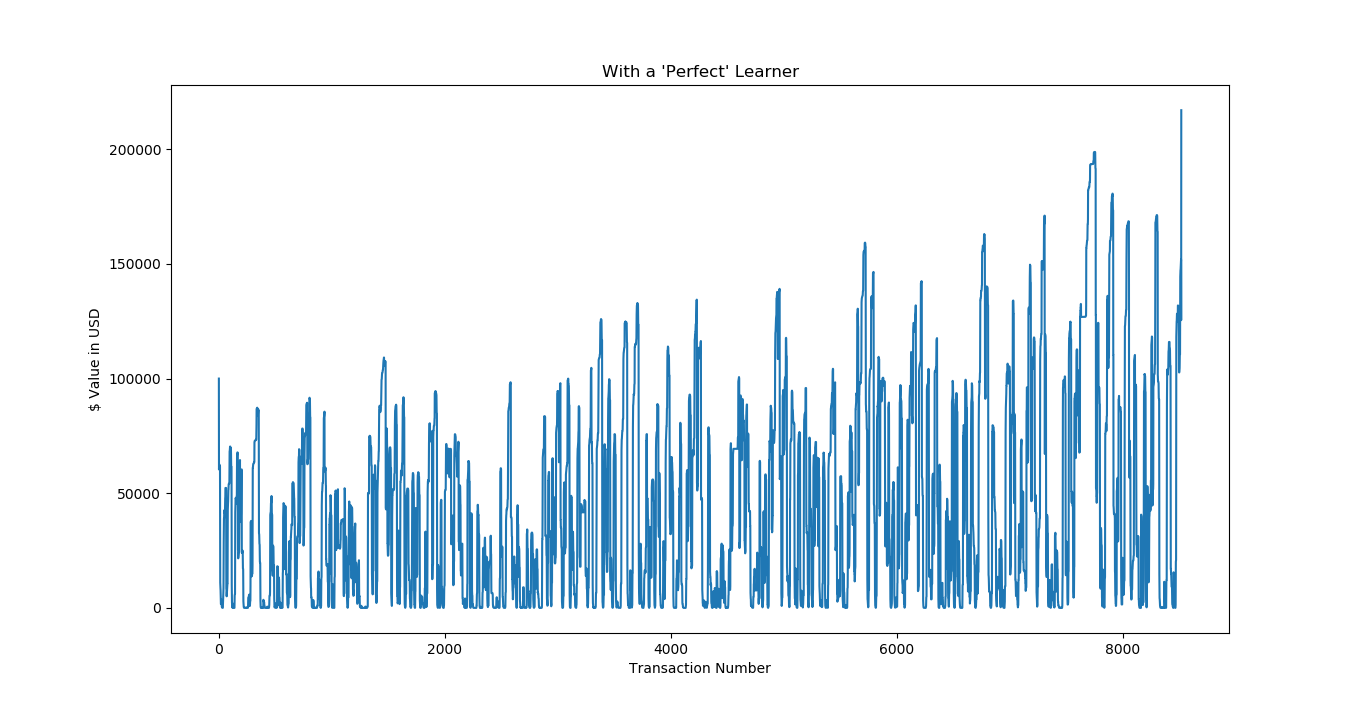
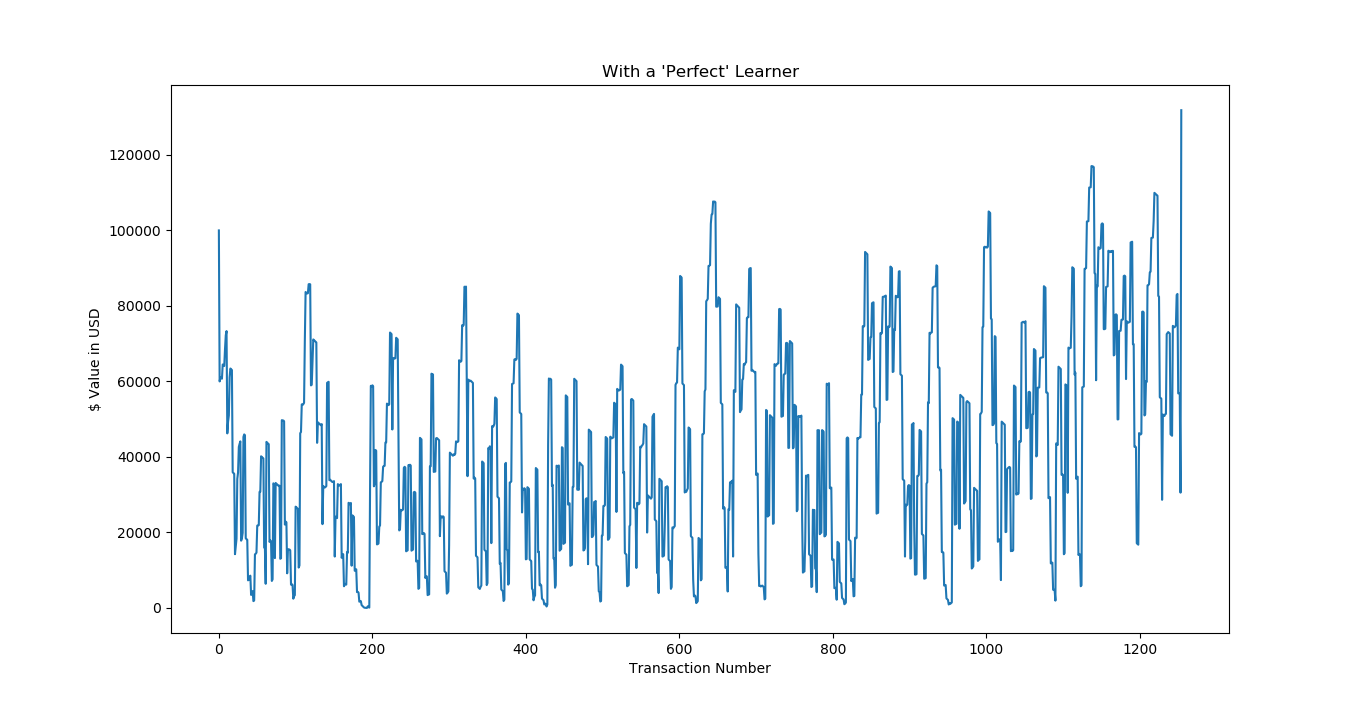
[MAIN] getting satisfying results

diff --git a/main.py b/main.py
@@ -22,10 +22,19 @@ threeCurrencies = ["EUR","GBP","JPY"]
 twoCurrencies = ["EUR", "JPY"]
 oneCurrencies = ["GBP"]
 
+SETTINGS = {
+   "WINDOW-SIZE": 4,
+   "CURRENCIES": threeCurrencies,
+   "INIT-INVESTMENT": 0.40,
+   "BSS-aggressiveness": 80.0,
+   "BSS-threshold": .02,
+   "NNN-batchPredict-period": 100
+}
+
 print("SPLITTING DATA")
 #IF YOU CHANGE ANYTHING HERE, YOU MUST RETRAIN NNN
-wrangler = DataWrangler(windowSize=4, 
-      						currencyList=threeCurrencies, 
+wrangler = DataWrangler(windowSize=SETTINGS["WINDOW-SIZE"], 
+      						currencyList=SETTINGS["CURRENCIES"], 
       						trainSize=0.9) #Automatically loads currentData.csv if it exists instead of raw_base_usd.csv
 nnn = NNN(wrangler, useEnsemble=True)
 
@@ -37,11 +46,11 @@ testData = wrangler.getTestData()
 i, num_rows = 1, (testData.shape[0]-3)
 day0 = F.DataFrameRow_to_Dictionary(testData[(i-1):i])
 lastDay = F.DataFrameRow_to_Dictionary(testData[(i+num_rows+1):(i+num_rows+2)])
-manager = TransactionManager(initialInvestment=(day0, 0.40), heartBeat=True)
-bss = BuySellStay(aggressiveness = 70.0, threshold = .02)
+manager = TransactionManager(initialInvestment=(day0, SETTINGS["INIT-INVESTMENT"]), heartBeat=True)
+bss = BuySellStay(aggressiveness = SETTINGS["BSS-aggressiveness"], threshold = SETTINGS["BSS-threshold"])
 
 print("PREDICTING & TRADING")
-
+predictions = {"EUR":[],"GBP":[],"JPY":[]}
 for i in range(i, (i+num_rows+1)):
    row = testData[i:(i+1)]
    #print(row.get_values())
@@ -49,13 +58,41 @@ for i in range(i, (i+num_rows+1)):
       wrangler.getCurrencyList(), 
       #nnn.predict()
       #nnn.smartPredict(row.get_values()[0])
-      nnn.batchPredict(row.get_values()[0], period = 100) #This predict does furtherfit every 100 Heartbeats
+      nnn.batchPredict(row.get_values()[0], period = SETTINGS["NNN-batchPredict-period"]) #This predict does furtherfit every 100 Heartbeats
       #nnn.trainAllEverytimePredict(row.get_values()[0])
    )
+   predictions["EUR"].append(prediction["EUR"])
+   predictions["GBP"].append(prediction["GBP"])
+   predictions["JPY"].append(prediction["JPY"])
    row = F.DataFrameRow_to_Dictionary(row)
    actions = bss.getActions(row, prediction)
    manager.makeTransactions(actions, row)
 
 manager.sellAll(lastDay)
 manager.report()
-manager.plotFundHistory()
+
+manager.plotFundHistory(specs=SETTINGS, showStats=True)
+
+
+# Shows the prediction values
+# import matplotlib.pyplot as plt
+# import pandas
+
+# data = pandas.DataFrame(predictions)
+# # data  = (data - data.mean()) / (data.max() - data.min())
+# selections = [
+#    "EUR","GBP"
+# ]
+# data = data[selections]
+# labels = []
+# for cur, mark in zip(data,['r', 'b', 'g']):
+#    col = data[cur].values
+#    lab, = plt.plot(range(0,len(col)), col, mark)
+#    labels.append(lab)
+
+# plt.ylabel('$ Value in USD')
+# plt.xlabel('Transaction Number')
+# plt.title('Predictions of ' + str(selections))
+# plt.legend(labels, selections)
+# print(data)
+# plt.show()

diff --git a/TransactionManager.py b/TransactionManager.py
@@ -113,18 +113,23 @@ class TransactionManager:
    #====================================================================
    # Print a simple report to the screen of what we own
    #====================================================================
-   def report(self):
+   def generateReportText(self, showShareHolds=True):
       money = lambda x: "$ {: >10}".format("{:.2f}".format(x))
-      print("CURRENT FUNDS:", money(self.totalFunds), sep = "\t")
-      print("TOTAL PROFIT:", money(self.totalFunds - self.history[0]), sep = "\t")
-      print("MAX FUNDS:", money(max(self.history)), sep = "\t")
-      print("MIN FUNDS:", money(min(self.history)), sep = "\t")
-      print("CURRENT SHARES HELD:", self.currentShares, "", sep = "\n")
+      report =  "CURRENT FUNDS:\t" + money(self.totalFunds) + "\n"
+      report += "TOTAL PROFIT:\t" + money(self.totalFunds - self.history[0]) + "\n"
+      report += "MAX FUNDS:\t" + money(max(self.history)) + "\n"
+      report += "MIN FUNDS:\t" + money(min(self.history)) + "\n"
+      if showShareHolds:
+         report +="CURRENT SHARES HELD:\n" + str(self.currentShares) + "\n\n"
+      return report
+
+   def report(self):
+      print(self.generateReportText())
 
    #====================================================================
    # Show a plot to report the changing values of the system
    #====================================================================
-   def plotFundHistory(self, title="Fund History", showTransactionPoints=False):
+   def plotFundHistory(self, title="Fund History", showTransactionPoints=False, specs=None, showStats=False):
       print("GENERATING PLOT '",title,"' ...", sep="")
       plt.plot(range(0,len(self.history)), self.history)
       if showTransactionPoints:
@@ -132,6 +137,14 @@ class TransactionManager:
       plt.ylabel('$ Value in USD')
       plt.xlabel('Transaction Number')
       plt.title(title)
+      if specs: 
+         plt.text(0, -20000, str(specs), size=5)
+      if showStats:
+         x = len(self.history)
+         x = x + x * 0.07
+         y = max(self.history)
+         y = y - y * 0.05
+         plt.text(x, y, self.generateReportText(), size=5)
       plt.show()
 
    #====================================================================
@@ -170,10 +183,7 @@ if __name__ == "__main__":
    # read in file data opt in which curencies we care about
    data = pandas.read_csv('data/raw_base_usd.csv', header=0)
    data = data[[
-      "AUD","CAD","CHF","CZK","DKK",
-      "EUR","GBP","HKD","HUF","JPY",
-      "KRW","NOK","NZD","PLN","SEK",
-      "SGD","ZAR"
+      "EUR","GBP","JPY"
    ]]
    print(data.head())
 

diff --git a/compareCurrencies.py b/compareCurrencies.py
@@ -1,0 +1,28 @@
+import pandas
+import matplotlib.pyplot as plt
+
+data = pandas.read_csv('data/raw_base_usd.csv', header=0)
+
+# ["AUD","CAD","CHF","CZK","DKK","EUR","GBP","HKD","HUF","JPY","KRW","NOK","NZD","PLN","SEK","SGD","ZAR"]
+selections = [
+   "EUR","GBP","JPY"
+]
+data = data[selections]
+
+i, num_rows = 4500, 500
+data = data[i:(i+num_rows+1)]
+
+data  = (data - data.mean()) / (data.max() - data.min())
+
+
+labels = []
+for cur, mark in zip(data,['r', 'b', 'g']):
+   col = data[cur].values
+   lab, = plt.plot(range(0,len(col)), col, mark)
+   labels.append(lab)
+
+plt.ylabel('$ Value in USD')
+plt.xlabel('Transaction Number')
+plt.title('Values of ' + str(selections))
+plt.legend(labels, selections)
+plt.show()
